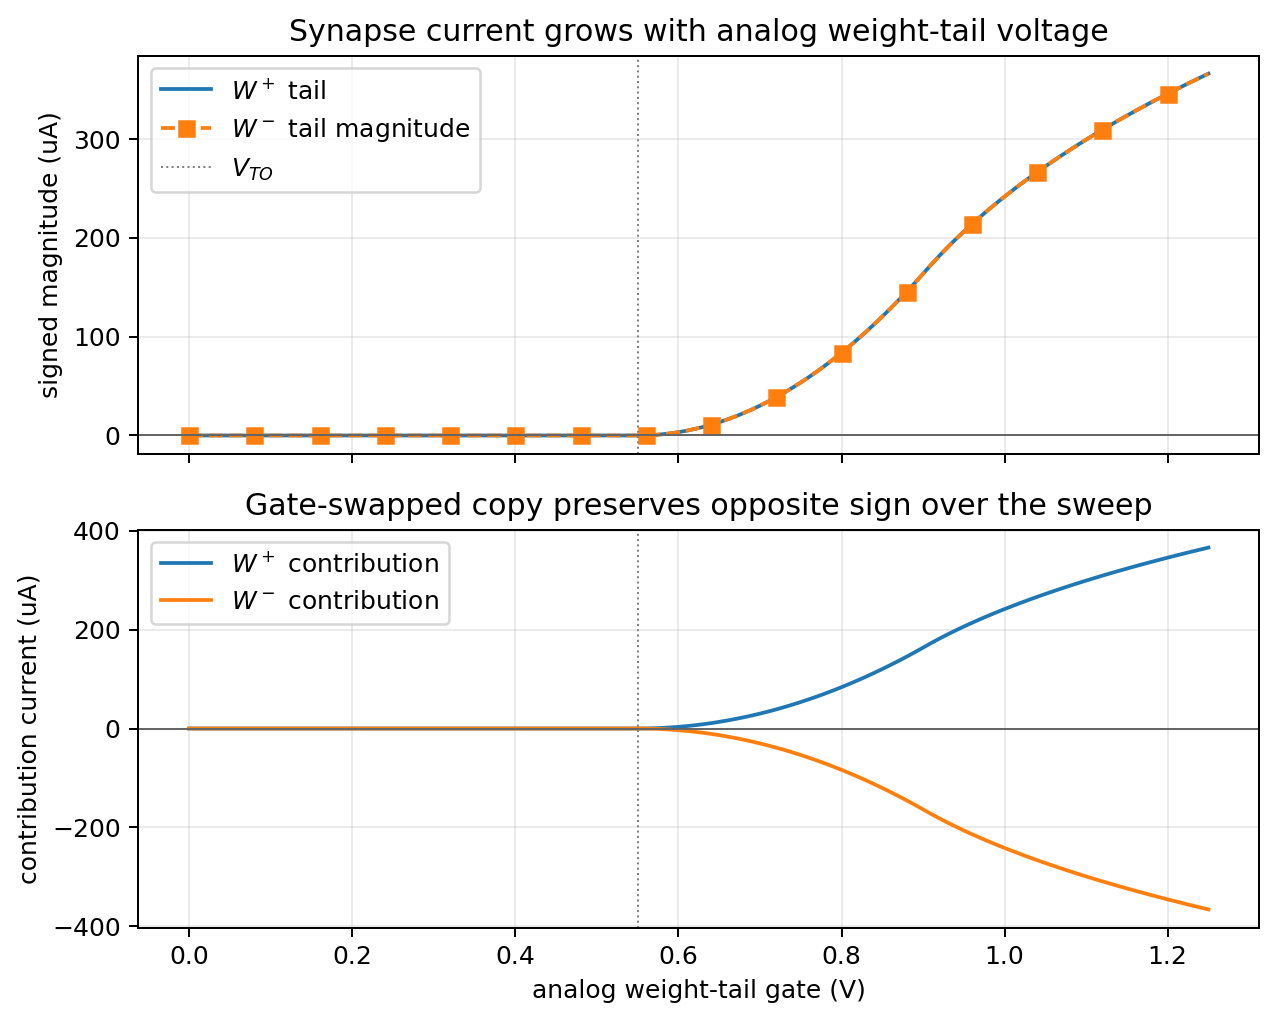
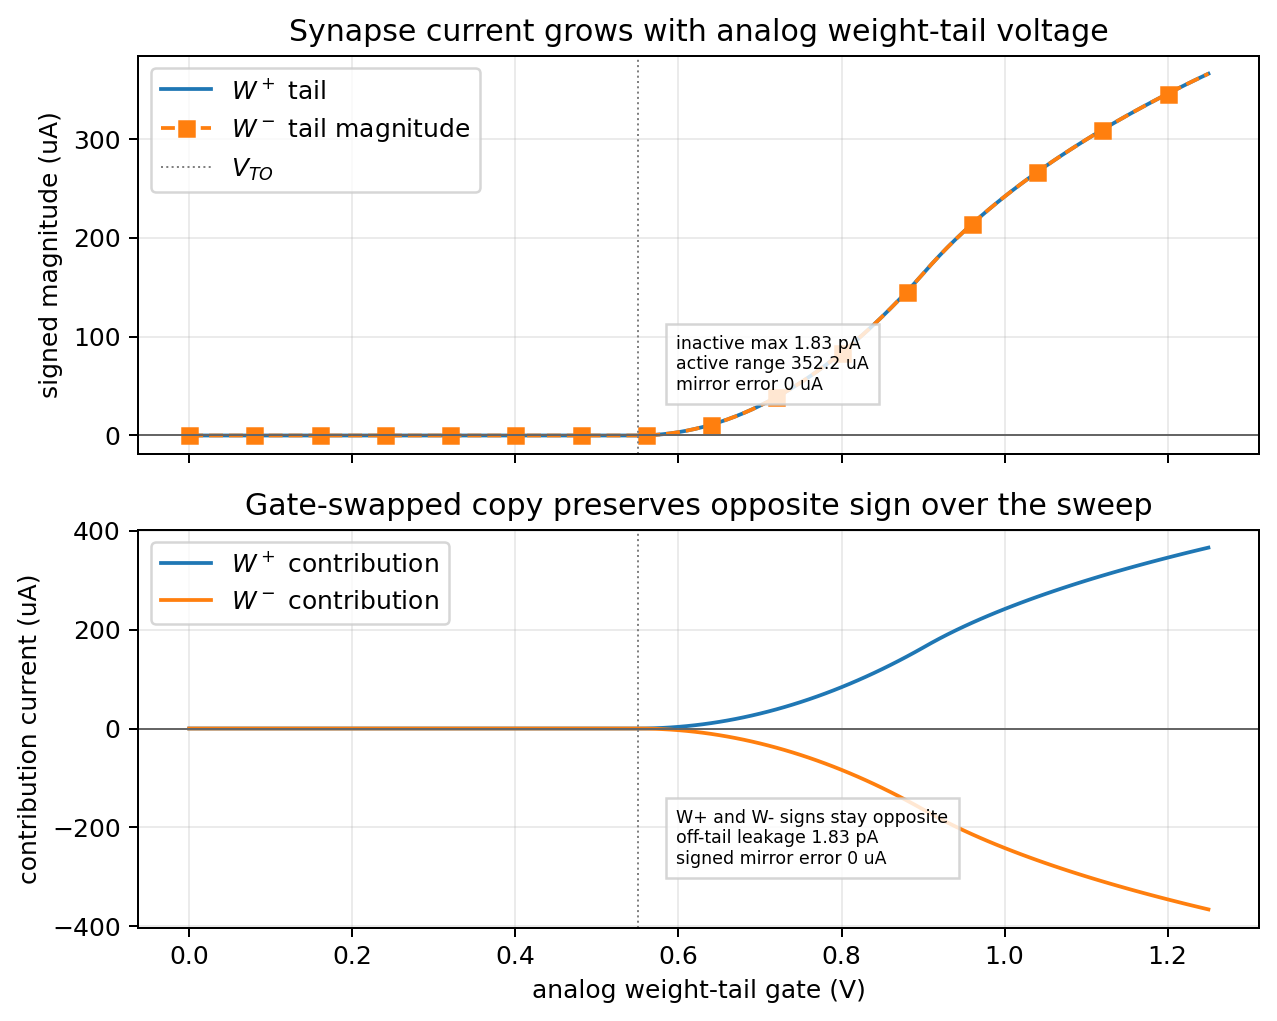
Annotate synapse primitive margins

Changed region(s): [[0.5192, 0.7591, 0.7635, 0.8805], [0.5192, 0.3036, 0.7024, 0.3947]]

diff --git a/spice/run_mos_cell_characterization.py b/spice/run_mos_cell_characterization.py
@@ -342,6 +342,9 @@ quit
     peak = max(float(np.max(np.abs(pos_signed))), 1e-30)
     require(np.max(np.abs(pos_signed + neg_signed)) < 1e-6 * peak, "negative-weight copy should reverse sign")
     require(np.max(np.abs(pos_signed + pos_signed[::-1])) < 2e-3 * peak, "synapse transfer should be odd-symmetric")
+    synapse_peak_uA = 1e6 * peak
+    synapse_mirror_error_uA = 1e6 * float(np.max(np.abs(pos_signed + neg_signed)))
+    synapse_odd_error_uA = 1e6 * float(np.max(np.abs(pos_signed + pos_signed[::-1])))
 
     cm_data = run_ngspice(cm_deck, "mos_synapse_common_mode")
     _cmt, cm_cols = load_wrdata(cm_data, 6 * len(cm_cases))
@@ -378,6 +381,13 @@ quit
     require(at(2.1e-6, pos_cap_signed) > 0.06, "w+ signed z storage should hold after pulse")
     require(at(2.1e-6, neg_cap_signed) < -0.06, "w- signed z storage should hold after pulse")
     require(abs(at(2.1e-6, cancel_cap_signed)) < 0.01, "cancelled shared z storage should hold near zero")
+    pos_store = at(1.25e-6, pos_cap_signed)
+    neg_store = at(1.25e-6, neg_cap_signed)
+    cancel_store = at(1.25e-6, cancel_cap_signed)
+    pos_hold_error = abs(at(2.1e-6, pos_cap_signed) - pos_store)
+    neg_hold_error = abs(at(2.1e-6, neg_cap_signed) - neg_store)
+    cancel_hold = at(2.1e-6, cancel_cap_signed)
+    store_hold_error = max(pos_hold_error, neg_hold_error, abs(cancel_hold - cancel_store))
 
     weighted_data = run_ngspice(weighted_deck, "mos_synapse_weighted")
     wt, weighted_cols = load_wrdata(weighted_data, 2 * len(weighted_cases) + 1)
@@ -394,6 +404,8 @@ quit
     require(abs(weighted_final[2]) < 0.01, "balanced W+ and W- weighted synapse case should cancel")
     require(np.all(np.diff(weighted_final) < -0.01), "weighted synapse net should decrease as W- dominates")
     require(np.max(np.abs(weighted_hold - weighted_final)) < 0.005, "weighted synapse states should hold after pulse")
+    weighted_hold_error = float(np.max(np.abs(weighted_hold - weighted_final)))
+    weighted_min_step = float(np.min(-np.diff(weighted_final)))
 
     magnitude_data = run_ngspice(magnitude_deck, "mos_synapse_weight_gate")
     _mg_sweep, magnitude_cols = load_wrdata(magnitude_data, 5)
@@ -426,6 +438,16 @@ quit
         np.max(np.abs(mag_pos_signed + mag_neg_signed)) < 0.02 * np.max(np.abs(mag_pos_signed)),
         "W- analog tail-gate copy should mirror W+ magnitude with reversed sign",
     )
+    mag_inactive_max_uA = 1e6 * max(
+        float(np.max(np.abs(mag_pos_signed[inactive]))),
+        float(np.max(np.abs(mag_neg_signed[inactive]))),
+    )
+    mag_inactive_max_pA = 1e6 * mag_inactive_max_uA
+    mag_dynamic_range_uA = 1e6 * min(
+        float(mag_pos_signed[-1] - mag_pos_signed[active][0]),
+        float((-mag_neg_signed[-1]) - (-mag_neg_signed[active][0])),
+    )
+    mag_mirror_error_uA = 1e6 * float(np.max(np.abs(mag_pos_signed + mag_neg_signed)))
 
     mismatch_data = run_ngspice(mismatch_deck, "mos_synapse_mismatch")
     _mt, mismatch_cols = load_wrdata(mismatch_data, 6 * len(mismatch_cases))
@@ -467,6 +489,7 @@ quit
     require(np.max(np.abs(np.array(mismatch_offsets) + np.array(mismatch_neg_offsets))) < 0.01, "gate-swapped W- mismatch offsets should mirror W+")
 
     fig, axes = plt.subplots(2, 1, figsize=(7.2, 6.2))
+    callout_box = {"facecolor": "white", "alpha": 0.82, "edgecolor": "0.8"}
     axes[0].plot(xdiff, 1e6 * pos_signed, label="$w^+$ high")
     axes[0].plot(xdiff, 1e6 * neg_signed, label="$w^-$ high")
     axes[0].axhline(0, color="0.4", linewidth=0.8)
@@ -476,6 +499,20 @@ quit
     axes[0].set_title("Signed synapse slice reverses contribution sign")
     axes[0].grid(True, alpha=0.25)
     axes[0].legend()
+    axes[0].text(
+        0.52,
+        0.16,
+        "\n".join(
+            [
+                f"peak swing {synapse_peak_uA:.1f} uA",
+                f"W-/W+ mirror error {synapse_mirror_error_uA:.3g} uA",
+                f"odd-symmetry error {synapse_odd_error_uA:.3g} uA",
+            ]
+        ),
+        transform=axes[0].transAxes,
+        fontsize="x-small",
+        bbox=callout_box,
+    )
     axes[1].plot(1e6 * t, pos_cap_signed, label="$w^+$: stored $z^- - z^+$")
     axes[1].plot(1e6 * t, neg_cap_signed, label="$w^-$: stored $z^- - z^+$")
     axes[1].plot(1e6 * t, cancel_cap_signed, label="$w^+ + w^-$ shared caps")
@@ -486,6 +523,21 @@ quit
     axes[1].set_title("Signed branches add on shared summing capacitors")
     axes[1].grid(True, alpha=0.25)
     axes[1].legend()
+    axes[1].text(
+        0.50,
+        0.17,
+        "\n".join(
+            [
+                f"W+ store {1e3 * pos_store:+.1f} mV",
+                f"W- store {1e3 * neg_store:+.1f} mV",
+                f"cancel store {1e3 * cancel_store:+.1f} mV",
+                f"max hold error {1e3 * store_hold_error:.2f} mV",
+            ]
+        ),
+        transform=axes[1].transAxes,
+        fontsize="x-small",
+        bbox=callout_box,
+    )
     fig.tight_layout()
     synapse_plot = save_plot(fig, "mos_synapse_slice_ngspice")
 
@@ -505,6 +557,21 @@ quit
     weighted_axes[0].set_title("Unequal W+ and W- tails partially cancel on shared summing caps")
     weighted_axes[0].grid(True, alpha=0.25)
     weighted_axes[0].legend(loc="upper right", ncol=2)
+    weighted_axes[0].text(
+        0.05,
+        0.14,
+        "\n".join(
+            [
+                f"W+ only {1e3 * weighted_final[0]:+.1f} mV",
+                f"balanced {1e3 * weighted_final[2]:+.1f} mV",
+                f"W- only {1e3 * weighted_final[4]:+.1f} mV",
+                f"hold error {1e3 * weighted_hold_error:.2f} mV",
+            ]
+        ),
+        transform=weighted_axes[0].transAxes,
+        fontsize="x-small",
+        bbox=callout_box,
+    )
     imbalance = np.array([wp - wm for _, wp, wm in weighted_cases])
     order = np.argsort(imbalance)
     weighted_axes[1].plot(imbalance[order], weighted_final[order], "o-", label="after write")
@@ -518,10 +585,16 @@ quit
     weighted_axes[1].text(
         0.02,
         0.88,
-        "labels: after-write mV",
+        "\n".join(
+            [
+                "labels: after-write mV",
+                f"min monotone step {1e3 * weighted_min_step:.1f} mV",
+                f"hold max error {1e3 * weighted_hold_error:.2f} mV",
+            ]
+        ),
         transform=weighted_axes[1].transAxes,
-        fontsize="small",
-        bbox={"facecolor": "white", "alpha": 0.8, "edgecolor": "0.8"},
+        fontsize="x-small",
+        bbox=callout_box,
     )
     weighted_axes[1].set_xlabel("$V_{W^+} - V_{W^-}$ during pulse (V)")
     weighted_axes[1].set_ylabel("stored preactivation (V)")
@@ -540,6 +613,20 @@ quit
     magnitude_axes[0].set_title("Synapse current grows with analog weight-tail voltage")
     magnitude_axes[0].grid(True, alpha=0.25)
     magnitude_axes[0].legend(loc="upper left")
+    magnitude_axes[0].text(
+        0.48,
+        0.16,
+        "\n".join(
+            [
+                f"inactive max {mag_inactive_max_pA:.2f} pA",
+                f"active range {mag_dynamic_range_uA:.1f} uA",
+                f"mirror error {mag_mirror_error_uA:.3g} uA",
+            ]
+        ),
+        transform=magnitude_axes[0].transAxes,
+        fontsize="x-small",
+        bbox=callout_box,
+    )
     magnitude_axes[1].plot(weight_gate, 1e6 * mag_pos_signed, label="$W^+$ contribution")
     magnitude_axes[1].plot(weight_gate, 1e6 * mag_neg_signed, label="$W^-$ contribution")
     magnitude_axes[1].axhline(0, color="0.4", linewidth=0.8)
@@ -549,6 +636,20 @@ quit
     magnitude_axes[1].set_title("Gate-swapped copy preserves opposite sign over the sweep")
     magnitude_axes[1].grid(True, alpha=0.25)
     magnitude_axes[1].legend(loc="upper left")
+    magnitude_axes[1].text(
+        0.48,
+        0.16,
+        "\n".join(
+            [
+                "W+ and W- signs stay opposite",
+                f"off-tail leakage {mag_inactive_max_pA:.2f} pA",
+                f"signed mirror error {mag_mirror_error_uA:.3g} uA",
+            ]
+        ),
+        transform=magnitude_axes[1].transAxes,
+        fontsize="x-small",
+        bbox=callout_box,
+    )
     magnitude_fig.tight_layout()
     save_plot(magnitude_fig, "mos_synapse_weight_gate_ngspice")
 

diff --git a/engineering_log.md b/engineering_log.md
@@ -2,6 +2,20 @@
 
 ## 2026-05-25
 
+- Clarified the base MOS synapse primitive plots.  The ngspice decks already
+  asserted signed W+/W- reversal, odd symmetry, shared-cap cancellation,
+  weight-rail imbalance monotonicity, tail-gate off isolation, active dynamic
+  range, and gate-swapped mirror behavior.  The regenerated
+  `mos_synapse_slice_ngspice`, `mos_synapse_weighted_ngspice`, and
+  `mos_synapse_weight_gate_ngspice` figures now label those margins directly:
+  the signed slice has \(484.2\,\mu\)A peak swing with zero displayed W-/W+
+  mirror error and \(0.0148\,\mu\)A odd-symmetry error; stored W+ and W-
+  pulses land at \(+104.9\) mV and \(-104.9\) mV while the balanced shared-cap
+  case cancels to \(0.0\) mV with no displayed hold error; weighted imbalance
+  cases move monotonically with an \(18.4\) mV minimum step and no displayed
+  hold error; and the analog tail-gate sweep keeps inactive leakage at
+  \(1.83\) pA while providing \(352.2\,\mu\)A active range with zero displayed
+  signed mirror error.
 - Clarified the MOS reset width and write-timing plots.  The reset decks
   already asserted that a complementary transmission-gate reset beats an
   NMOS-only reset, preserves common mode, suppresses writes while reset is
